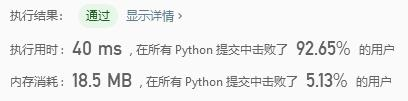
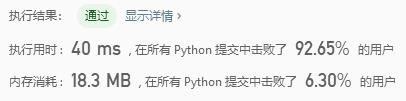
2019/10/3 14:27 精简代码

diff --git a/141-环形链表/LinkedListCycle.py b/141-环形链表/LinkedListCycle.py
@@ -22,12 +22,9 @@ class Solution(object):
         """
         step = head
         run = head
-        while(1):
-            if run is None:
-                return False
-            elif run.next is None:
-                return False
+        while run and run.next:
             step = step.next           # step步长为1
             run = run.next.next        # run步长为2
             if step is run:
                 return True
+        return False
